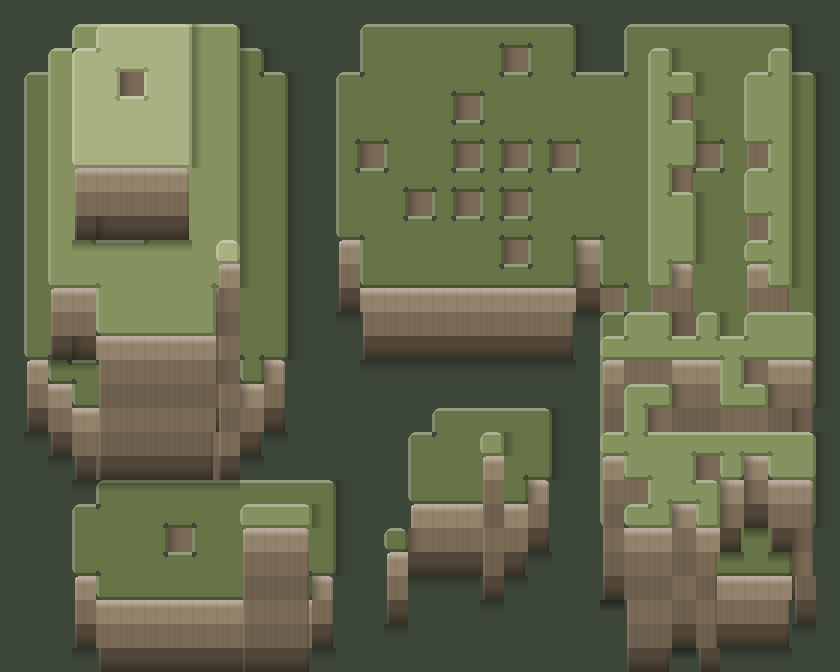
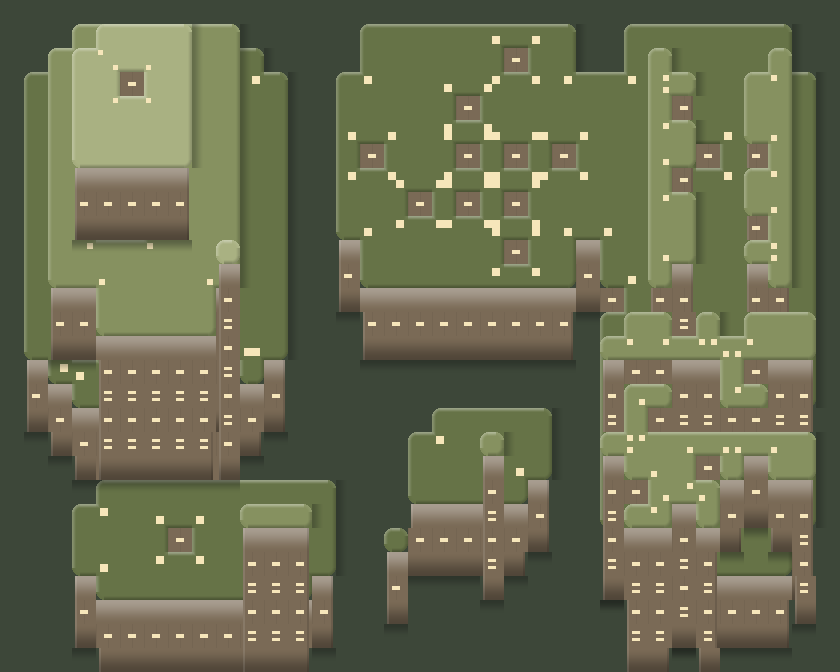
Le meme soin sur la version peinte
LA LEVRE SUIT LE CONTOUR, PAS LES QUATRE COTES
Quatre bandes droites laissaient la levre s arreter net avant chaque coin
arrondi, et manquer entierement les coins rentrants -- le meme trou que
le trait avait au fil de fer, en plus sournois : une bande claire qui s
interrompt se lit comme un defaut de peinture. _rim_shade() mesure la
distance au contour REEL et fond la teinte au lieu de poser une bande.

UNE FALAISE NE DOIT PAS ETRE BARREE DE COUTURES
Les deux rangees de corps avaient deux teintes differentes, ce qui rayait
la face a chaque changement de rangee. Elles partagent desormais la meme
teinte, et ce qui differe est la TEXTURE -- un decalage de striure.
Et le chapiteau comme le pied commencent et finissent sur la teinte du
corps : sans ca, deux rangees voisines se raccordaient sur deux teintes
differentes et le raccord se voyait a chaque cran.

Verifie sur un mur de six cases agrandi : la face est continue du haut
du chapiteau au bas du pied.

158 verifications, 0 echec.

Claude-Session: https://claude.ai/code/session_018tvN4TQBR3sh7MsSTnFB1b

diff --git a/CLAUDE.md b/CLAUDE.md
@@ -454,6 +454,25 @@ Chaque entrée note le choix et sa raison, pour ne pas le rejouer plus tard.
   que son voisin du sud-ouest soit plein ou vide. Courber là, ce serait poser un arc que
   personne ne rejoint. Seuls les coins **sortants** s'arrondissent.
 
+- **La lèvre peinte suit le contour, pas les quatre côtés.** Peindre quatre bandes droites
+  laissait la lèvre s'arrêter net avant chaque coin arrondi, et manquer entièrement les
+  coins rentrants — le même trou que le trait avait au fil de fer, en plus sournois : une
+  bande claire qui s'interrompt se lit comme un défaut de peinture, pas comme un choix.
+  `_rim_shade()` mesure la distance au **contour réel** — côtés ouverts, arcs des coins
+  sortants, carré des coins rentrants — et fond la teinte au lieu de poser une bande
+  franche.
+
+- **Une falaise ne doit pas être barrée de coutures.** Deux corrections, toutes deux
+  visibles à l'œil dès qu'on regarde un mur de six cases :
+  - les deux rangées de corps avaient **deux teintes différentes**, ce qui rayait la face
+    d'une bande à chaque changement de rangée. Elles partagent maintenant la même teinte,
+    et ce qui diffère est la **texture** : un décalage de striure, invisible en bande,
+    suffisant pour que l'œil ne lise pas la répétition ;
+  - le chapiteau et le pied **commencent et finissent désormais sur la teinte du corps**.
+    Le chapiteau part de la lumière en haut et la rejoint en bas, le pied part du corps et
+    s'enfonce. Sans ça, deux rangées voisines se raccordaient sur deux teintes
+    différentes, et le raccord se voyait à chaque cran.
+
 - **Le littoral est plus appuyé que les courbes de niveau.** Un dessin où tous les traits
   pèsent pareil se lit comme un plan de cuisine ; en allégeant à mesure qu'on monte,
   l'œil trouve tout de suite le bord de la terre et lit les étages comme un relief.
